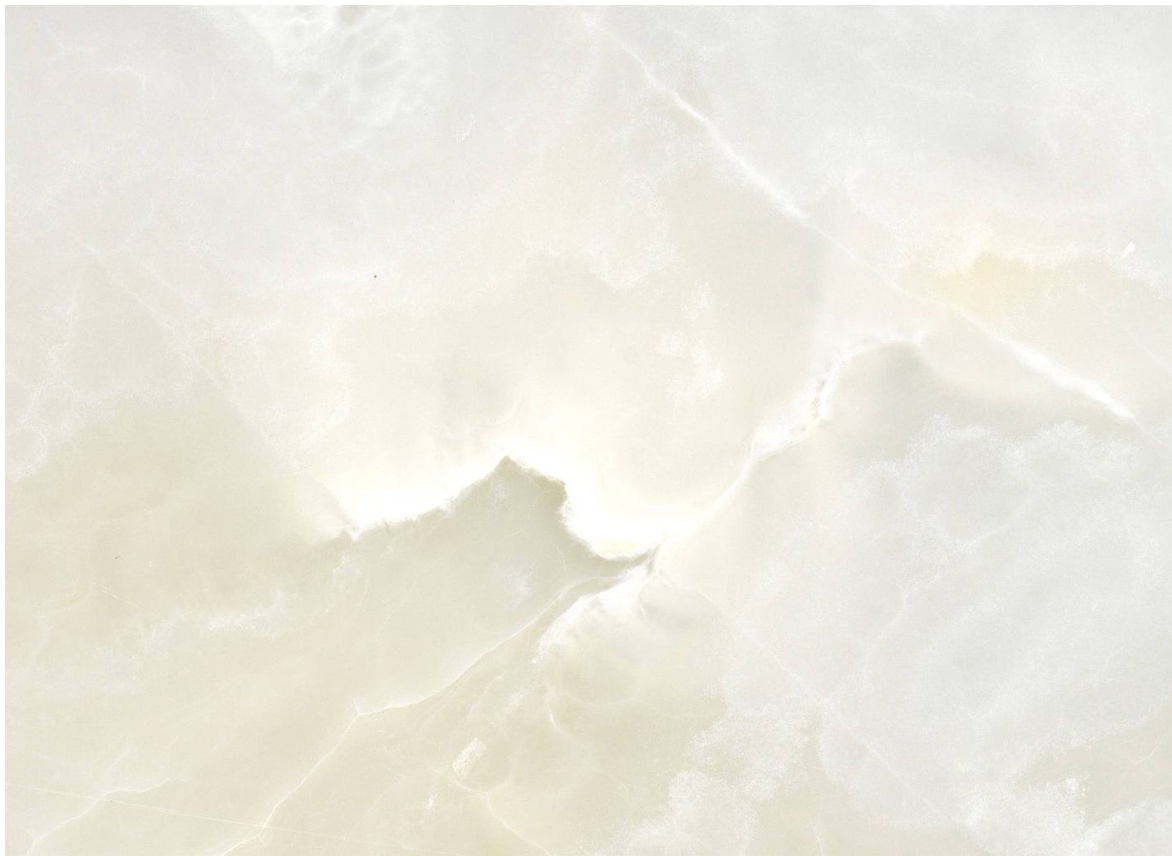
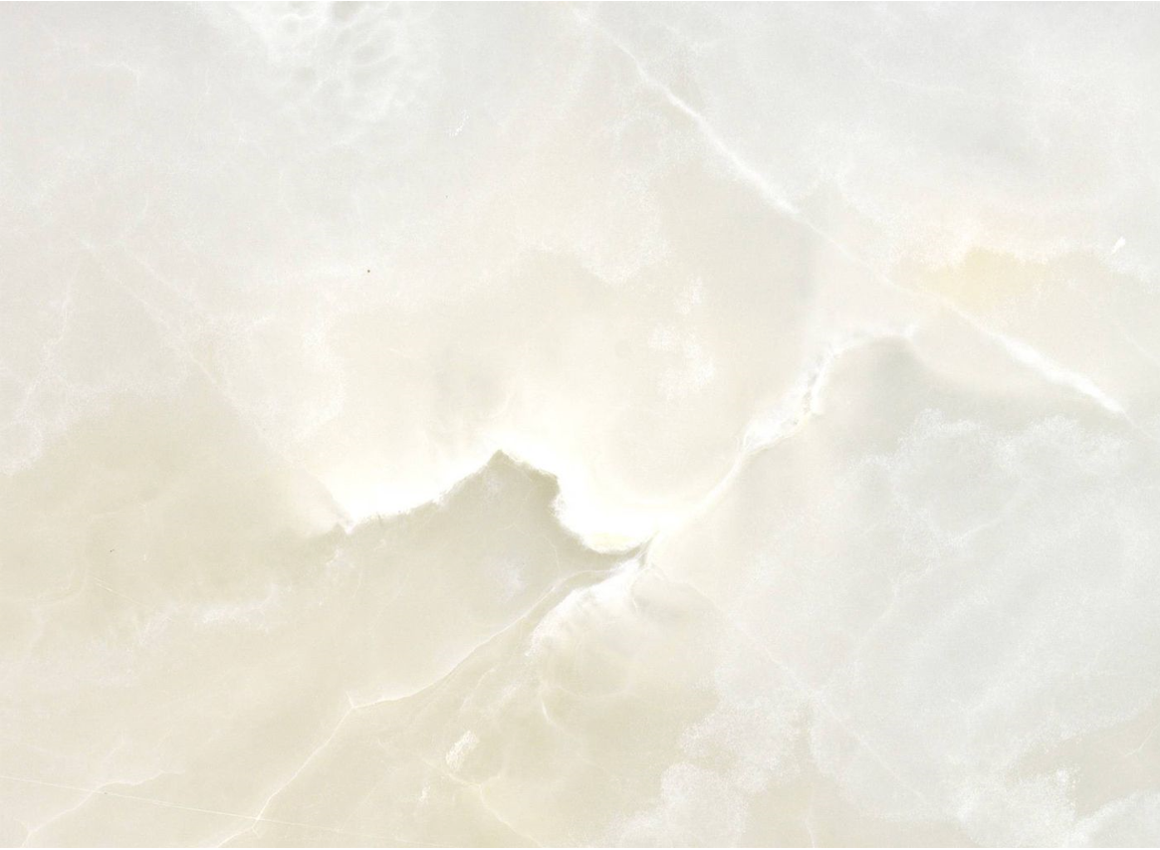
cambio de formato de foto

diff --git a/css/style.css b/css/style.css
@@ -11,7 +11,7 @@
   color: #000000ee; }
 
 header {
-  background-image: url("/img/marmoldeonix.PNG");
+  background-image: url("/img/marmoldeonix.png");
   background-repeat: no-repeat;
   background-size: cover; }
   header h1 a {
